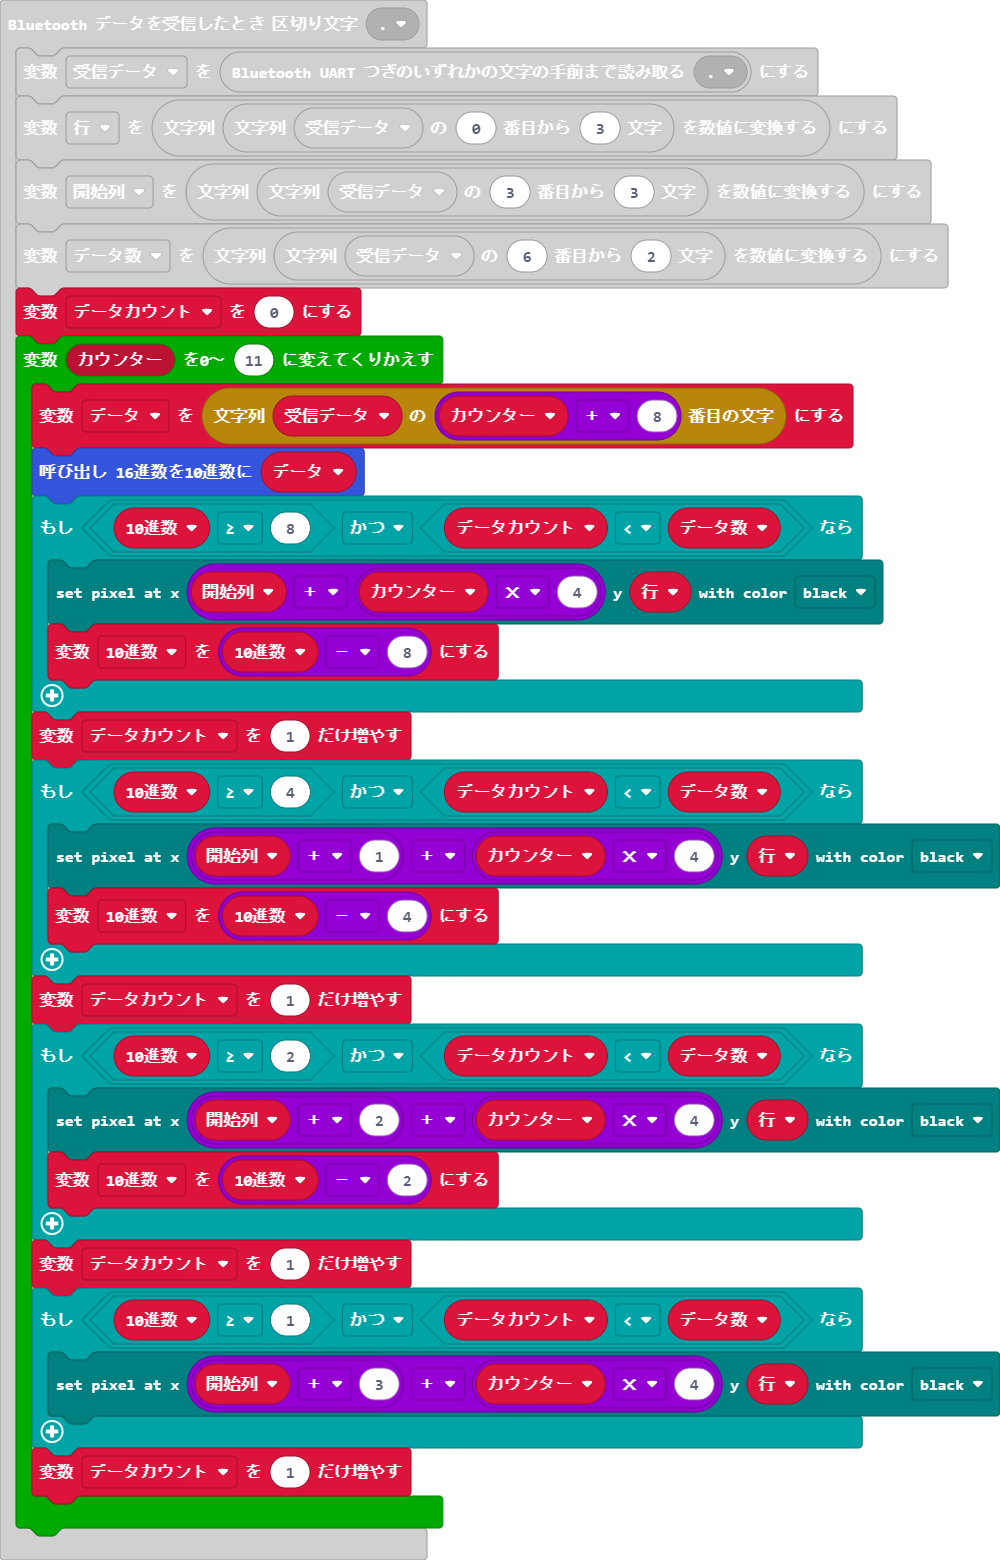
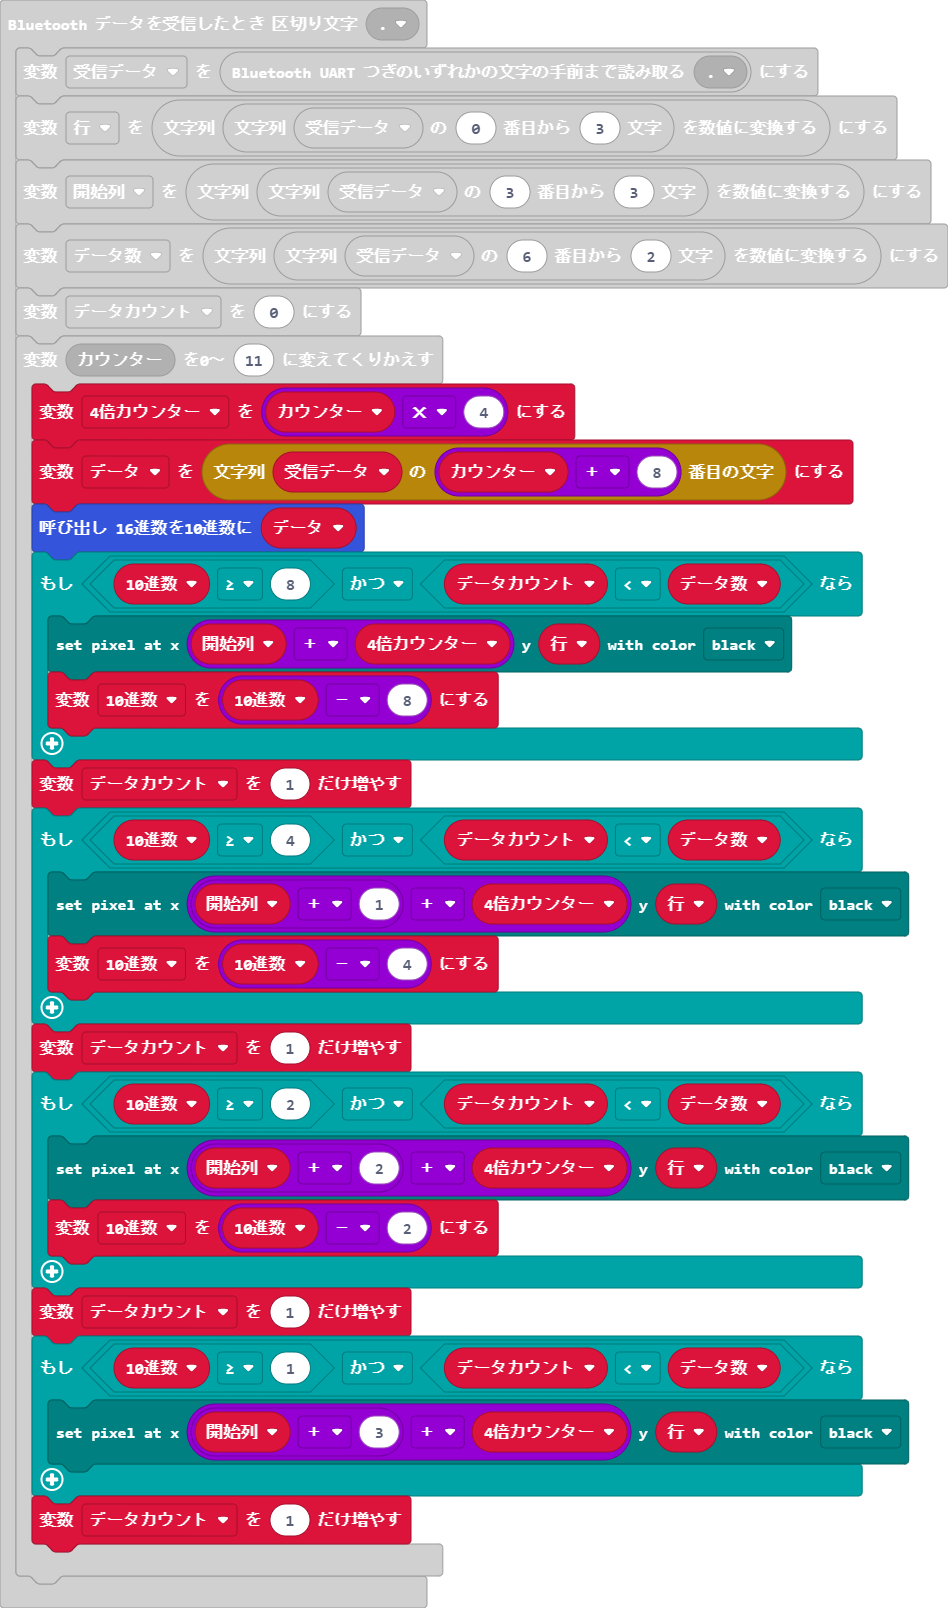
更新 main.blocks, main.ts

diff --git a/main.ts b/main.ts
@@ -14,25 +14,26 @@ bluetooth.onUartDataReceived(serial.delimiters(Delimiters.Fullstop), function ()
     データ数 = parseFloat(受信データ.substr(6, 2))
     データカウント = 0
     for (let カウンター = 0; カウンター <= 11; カウンター++) {
+        _4倍カウンター = カウンター * 4
         データ = 受信データ.charAt(カウンター + 8)
         _16進数を10進数に(データ)
         if (_10進数 >= 8 && データカウント < データ数) {
-            inkybit.setPixel(開始列 + カウンター * 4, 行, inkybit.Color.Black)
+            inkybit.setPixel(開始列 + _4倍カウンター, 行, inkybit.Color.Black)
             _10進数 = _10進数 - 8
         }
         データカウント += 1
         if (_10進数 >= 4 && データカウント < データ数) {
-            inkybit.setPixel(開始列 + 1 + カウンター * 4, 行, inkybit.Color.Black)
+            inkybit.setPixel(開始列 + 1 + _4倍カウンター, 行, inkybit.Color.Black)
             _10進数 = _10進数 - 4
         }
         データカウント += 1
         if (_10進数 >= 2 && データカウント < データ数) {
-            inkybit.setPixel(開始列 + 2 + カウンター * 4, 行, inkybit.Color.Black)
+            inkybit.setPixel(開始列 + 2 + _4倍カウンター, 行, inkybit.Color.Black)
             _10進数 = _10進数 - 2
         }
         データカウント += 1
         if (_10進数 >= 1 && データカウント < データ数) {
-            inkybit.setPixel(開始列 + 3 + カウンター * 4, 行, inkybit.Color.Black)
+            inkybit.setPixel(開始列 + 3 + _4倍カウンター, 行, inkybit.Color.Black)
         }
         データカウント += 1
     }
@@ -61,6 +62,7 @@ function _16進数を10進数に (テキスト: string) {
 }
 let _10進数 = 0
 let データ = ""
+let _4倍カウンター = 0
 let データカウント = 0
 let データ数 = 0
 let 開始列 = 0
